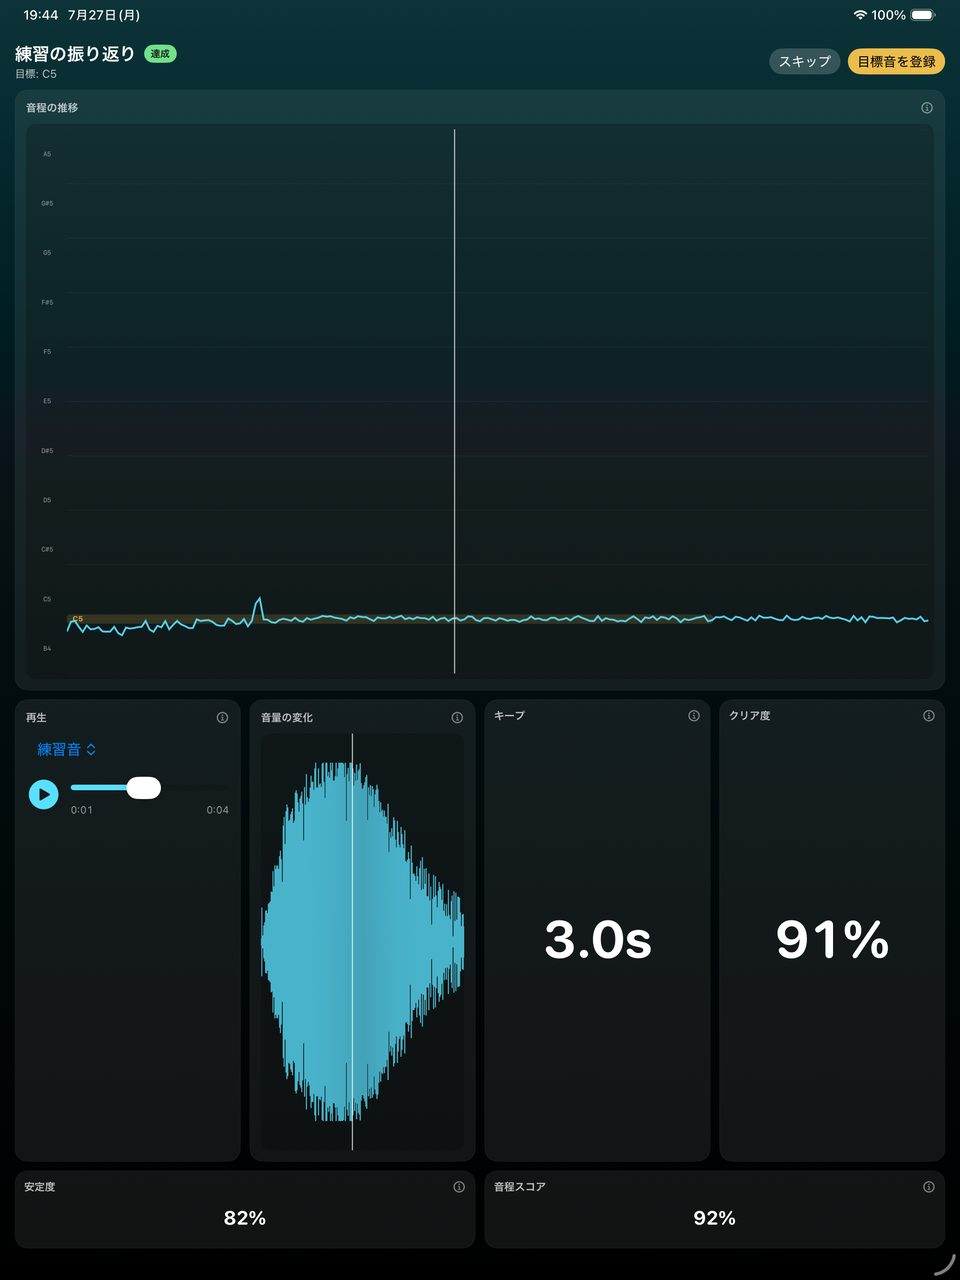
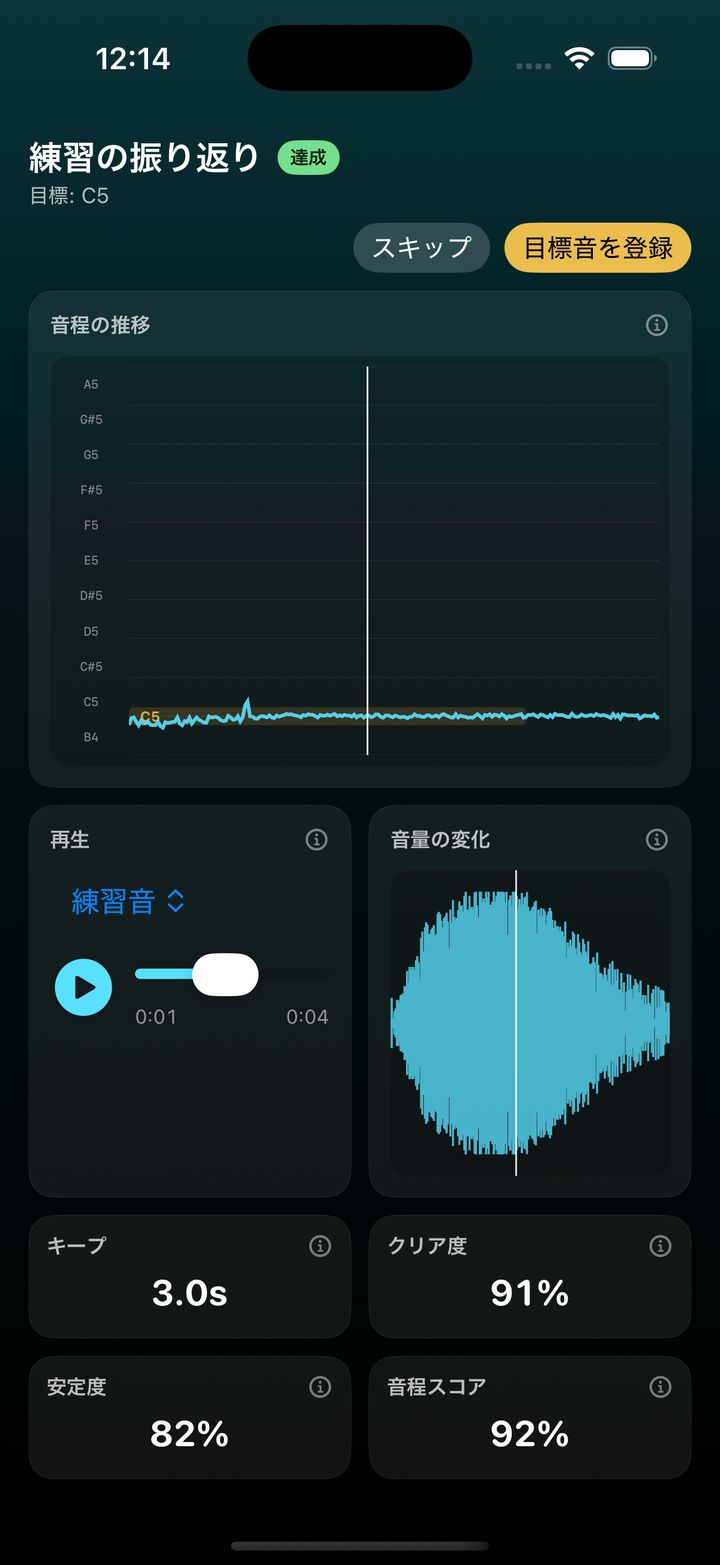
Use iPhone screenshots in the user guide.
Replace oversized iPad images with phone captures and tighten display width.

diff --git a/_includes/head-custom.html b/_includes/head-custom.html
@@ -1,12 +1,13 @@
 <!-- Optional: site verification / analytics meta. Sync script does not overwrite this file. -->
 <style>
   img {
-    max-width: min(100%, 480px);
+    max-width: min(100%, 320px);
     height: auto;
-    border-radius: 12px;
+    border-radius: 16px;
     border: 1px solid rgba(0, 0, 0, 0.12);
-    margin: 0.75rem 0 1.25rem;
+    margin: 0.75rem auto 1.25rem;
     display: block;
+    box-shadow: 0 8px 24px rgba(0, 0, 0, 0.08);
   }
   .lang-switch {
     margin: 0.5rem 0 1rem;
